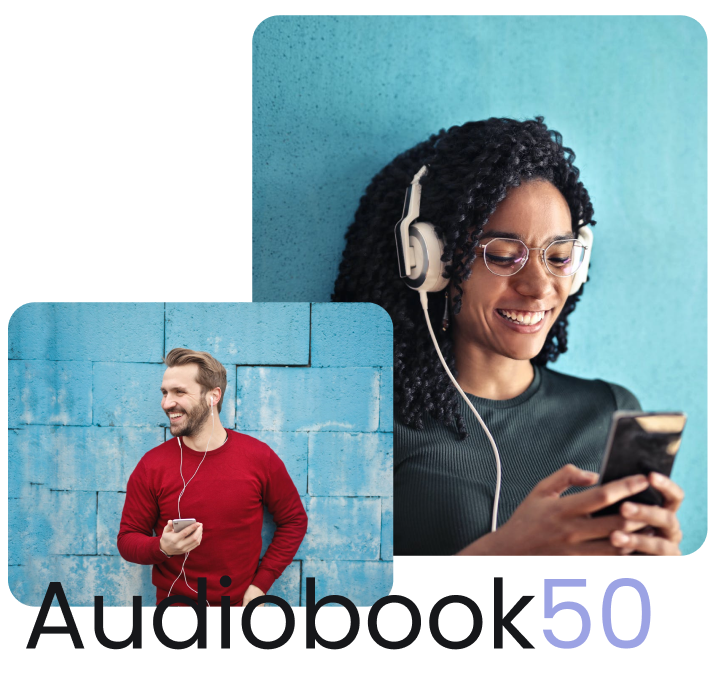
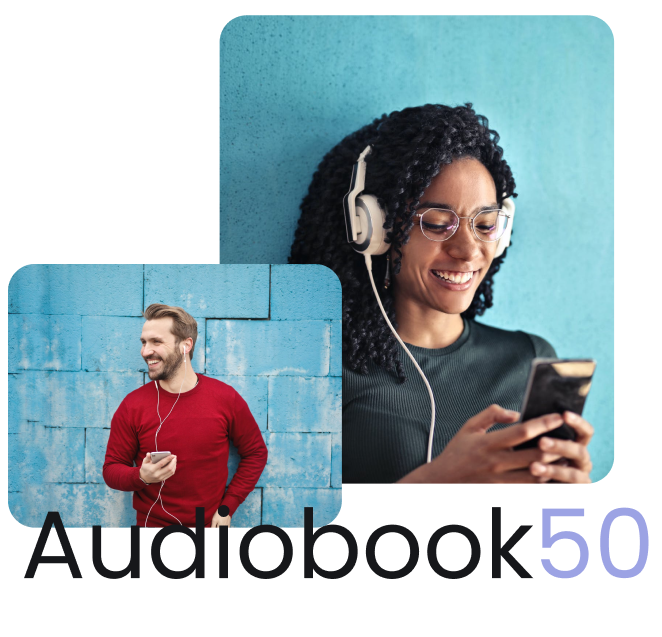
:zap: perfect lighthouse desktop score

diff --git a/website/templates/layout.html b/website/templates/layout.html
@@ -1,25 +1,25 @@
 <!DOCTYPE html>
 <html lang="en">
 <head>
+    <!-- google fonts -->
+    <link rel="preload" href="{{url_for('static', filename='css/googlefonts.css')}}" rel="stylesheet" />
+
     <meta charset="UTF-8">
     <meta http-equiv="X-UA-Compatible" content="IE=edge">
     <meta name="viewport" content="width=device-width, initial-scale=1.0">
     <link rel="shortcut icon" type="image/jpg" href="{{url_for('static', filename="favicon.png")}}"/>
+    {% block meta %}{% endblock %}
+    
     <!-- bootstrap -->
     <link href="https://cdn.jsdelivr.net/npm/bootstrap@5.0.2/dist/css/bootstrap.min.css" rel="stylesheet" integrity="sha384-EVSTQN3/azprG1Anm3QDgpJLIm9Nao0Yz1ztcQTwFspd3yD65VohhpuuCOmLASjC" crossorigin="anonymous">
 
-    <!-- google fonts -->
-    <link rel="preconnect" href="https://fonts.googleapis.com" />
-    <link rel="preconnect" href="https://fonts.gstatic.com" crossorigin />
-    <link href="https://fonts.googleapis.com/css2?family=Poppins:wght@300;400;600;700&display=swap" rel="stylesheet" />
-
     <!-- custom styles -->
-    <link href="{{url_for('static', filename='css/custom.css')}}" rel="stylesheet" />
+    <link href="{{url_for('static', filename='css/custom.min.css')}}" rel="stylesheet" />
     {% block style %}{% endblock %}
 
-    <script src="https://code.jquery.com/jquery-3.6.0.min.js" integrity="sha256-/xUj+3OJU5yExlq6GSYGSHk7tPXikynS7ogEvDej/m4=" crossorigin="anonymous"></script>
-    <script src="https://cdn.jsdelivr.net/npm/bootstrap@4.5.3/dist/js/bootstrap.bundle.min.js" integrity="sha384-ho+j7jyWK8fNQe+A12Hb8AhRq26LrZ/JpcUGGOn+Y7RsweNrtN/tE3MoK7ZeZDyx" crossorigin="anonymous"></script>
 
+    <script defer src="https://code.jquery.com/jquery-3.6.0.slim.min.js" integrity="sha256-u7e5khyithlIdTpu22PHhENmPcRdFiHRjhAuHcs05RI=" crossorigin="anonymous"></script>
+    <script defer src="https://cdn.jsdelivr.net/npm/bootstrap@4.5.3/dist/js/bootstrap.bundle.min.js" integrity="sha384-ho+j7jyWK8fNQe+A12Hb8AhRq26LrZ/JpcUGGOn+Y7RsweNrtN/tE3MoK7ZeZDyx" crossorigin="anonymous"></script>
 
     <title>Audiobook50: {% block title %}{% endblock %}</title>
 </head>

diff --git a/website/static/css/custom.min.css b/website/static/css/custom.min.css
@@ -1,0 +1,1 @@
+body{font-family:'Poppins',sans-serif;background-color:#f7f7f7}:root{--cbs-primary:#8f98e5;--cbs-secondary:#16171A;--cbs-primary-hover:rgb(96,104,175);--cbs-secondary-hover:#3b3b3b}.btn{border-width:0px}.btn:hover,.btn:focus{box-shadow:none !important}.text-black{color:#16171A}bg-primary{background-color:var(--cbs-primary) !important}.text-primary{color:var(--cbs-primary) !important}.btn-primary{background-color:var(--cbs-primary)}.btn-primary:hover,.btn-primary:focus{box-shadow:none !important;background-color:var(--cbs-primary-hover)}input:hover,input:focus{box-shadow:var(--cbs-primary) !important;border-color:var(--cbs-primary)}bg-seconday{background-color:var(--cbs-secondary)}.text-secondary{color:var(--cbs-secondary) !important}.btn-secondary{background-color:var(--cbs-secondary)}.btn-secondary:hover,.btn-secondary:focus{box-shadow:none !important;background-color:var(--cbs-secondary-hover)}.full-height{height:100vh}.fit-container{width:100%;height:100%}h1,h2,h3,h4,h5,h6,p,div,a{color:var(--cbs-secondary)}.navbar{position:fixed;top:0;left:0;right:0;z-index:20}::-webkit-scrollbar{width:8px}::-webkit-scrollbar-track{background:#f1f1f1}::-webkit-scrollbar-thumb{background:var(--cbs-secondary-hover);border-radius:99px}::-webkit-scrollbar-thumb:hover{background:var(--cbs-secondary)}.cursor-pointer{cursor:pointer}

diff --git a/website/static/css/home.min.css b/website/static/css/home.min.css
@@ -1,0 +1,1 @@
+body{background-color:white !important}.navbar{box-shadow:none !important}#navlink-home{font-weight:600}img{object-fit:cover}h3{font-size:5vw;font-weight:600;margin-bottom:16px;visibility:hidden;animation:appear 600ms ease-in;animation-delay:600ms;animation-fill-mode:forwards}.btn-secondary{visibility:hidden;animation:appear 600ms ease-in;animation-delay:600ms;animation-fill-mode:forwards}.bg{left:0;right:0;top:0;width:100%;z-index:-10}.parent-container{background:linear-gradient(162.68deg, rgba(255, 255, 255, 0) 11.89%, #E8E8E8 92.56%);width:100%}.hero-container{position:relative;width:100%;height:100%;top:-10px}.hero-img{width:500px;height:482px;animation:appear 600ms ease-in}@media (max-width: 976px){.hero-img{width:400px;height:385px}}@media (max-width: 760px){.hero-img{width:300px;height:289px}}@media (max-width: 315px){.hero-img{width:200px;height:193px}}.title-container{position:relative;top:-20px}nav.navbar{background-color:transparent !important}@media (max-width: 991.98px){.title-container{text-align:center}h3{font-size:2rem}.hero-container{top:20px}.title-container{top:0}}@keyframes appear{from{opacity:0;transform:translateY(20px)}to{opacity:1;visibility:visible}}

diff --git a/website/templates/book.html b/website/templates/book.html
@@ -1,10 +1,17 @@
 {% extends "layout.html" %}
 
+{% block meta %}
+    <meta name="description" content="{{book_details.title}} by {{book_details.author}} audio book with live transcription">
+    <meta name="keywords" content="audiobook, {{book_details.title}}, {{book_details.author}}">
+    <meta name="author" content="{{book_details.author}}">
+{% endblock %}
+
 {% block title %}
     {{book_details.title}}
 {% endblock %}
 
 {% block style %}
+    <script src="https://code.jquery.com/jquery-3.6.0.min.js" integrity="sha256-/xUj+3OJU5yExlq6GSYGSHk7tPXikynS7ogEvDej/m4=" crossorigin="anonymous"></script>
     <link href="{{url_for('static', filename="css/book.css")}}" rel="stylesheet" />
     <link href="{{url_for('static', filename="css/loading.css")}}" rel="stylesheet" />
 {% endblock %}

diff --git a/website/static/css/googlefonts.css b/website/static/css/googlefonts.css
@@ -1,0 +1,18 @@
+/* poppins-regular - latin */
+@font-face {
+    font-family: 'Poppins';
+    font-style: normal;
+    font-weight: 400;
+    src: local(''),
+         url('../fonts/poppins-v15-latin-regular.woff2') format('woff2'), /* Chrome 26+, Opera 23+, Firefox 39+ */
+         url('../fonts/poppins-v15-latin-regular.woff') format('woff'); /* Chrome 6+, Firefox 3.6+, IE 9+, Safari 5.1+ */
+  }
+  /* poppins-600 - latin */
+  @font-face {
+    font-family: 'Poppins';
+    font-style: normal;
+    font-weight: 600;
+    src: local(''),
+         url('../fonts/poppins-v15-latin-600.woff2') format('woff2'), /* Chrome 26+, Opera 23+, Firefox 39+ */
+         url('../fonts/poppins-v15-latin-600.woff') format('woff'); /* Chrome 6+, Firefox 3.6+, IE 9+, Safari 5.1+ */
+  }

diff --git a/website/static/css/book.min.css b/website/static/css/book.min.css
@@ -1,0 +1,1 @@
+.title{font-weight:700;font-size:2.5rem}.mt-spacing{margin-top:80px}h1{background-color:red}h5{margin-bottom:16px}p{padding:8px;transition:all;transition-duration:250ms;transition-timing-function:ease-out}.active>span{background-color:var(--cbs-primary);padding:8px;border-radius:3px;color:white;display:inline-block}nav.navbar{background-color:white}#find-current{background-color:var(--cbs-primary);width:50px;height:50px;display:flex;justify-content:center;align-items:center;font-size:0.7rem;position:fixed;bottom:20px;right:20px;z-index:5;border-radius:999px;cursor:pointer;color:white}#find-current:hover{background-color:var(--cbs-primary-hover)}

diff --git a/website/templates/index.html b/website/templates/index.html
@@ -1,11 +1,17 @@
 {% extends "layout.html" %}
 
+{% block meta %}
+    <meta name="description" content="A cs50x final project that uses youtube to get audio and transcripts from audiobooks">
+    <meta name="keywords" content="audiobook, youtube audiobook, audiobook transcription, cs50, cs50x">
+    <meta name="author" content="Ralf Lopez">
+{% endblock %}
+
 {% block title%}
     Home
 {% endblock %}
 
 {% block style %}
-    <link href="{{url_for('static', filename="css/home.css")}}" rel="stylesheet" />
+    <link href="{{url_for('static', filename="css/home.min.css")}}" rel="stylesheet" />
 {% endblock %}
 
 {% block main%}

diff --git a/website/static/css/loading.min.css b/website/static/css/loading.min.css
@@ -1,0 +1,1 @@
+#loading-screen{width:100%;height:100vh;background:linear-gradient(162.68deg, rgba(255, 255, 255, 0) 11.89%, #E8E8E8 92.56%);position:fixed;top:0;left:0;z-index:20;display:flex;justify-content:center;align-items:center;backdrop-filter:blur(200px);transition:all 250ms ease-out}.loading-screen-logo{width:400px;position:absolute;z-index:25}.loading-screen-circle{background-color:var(--cbs-primary);width:200px;height:200px;z-index:20;border-radius:9999px;animation:pulse 2s ease-in-out infinite}@keyframes pulse{0%{transform:scale(0.5)}50%{transform:scale(1)}100%{transform:scale(0.5)}}

diff --git a/website/templates/catalogue.html b/website/templates/catalogue.html
@@ -1,5 +1,10 @@
 {% extends "layout.html" %}
 
+{% block meta %}
+    <meta name="description" content="Find or contriute to audiobooks with live transcript">
+    <meta name="keywords" content="audiobook, transcriptions, audiobook with transcription">
+{% endblock %}
+
 {% block title %}
     Catalogue
 {% endblock %}
